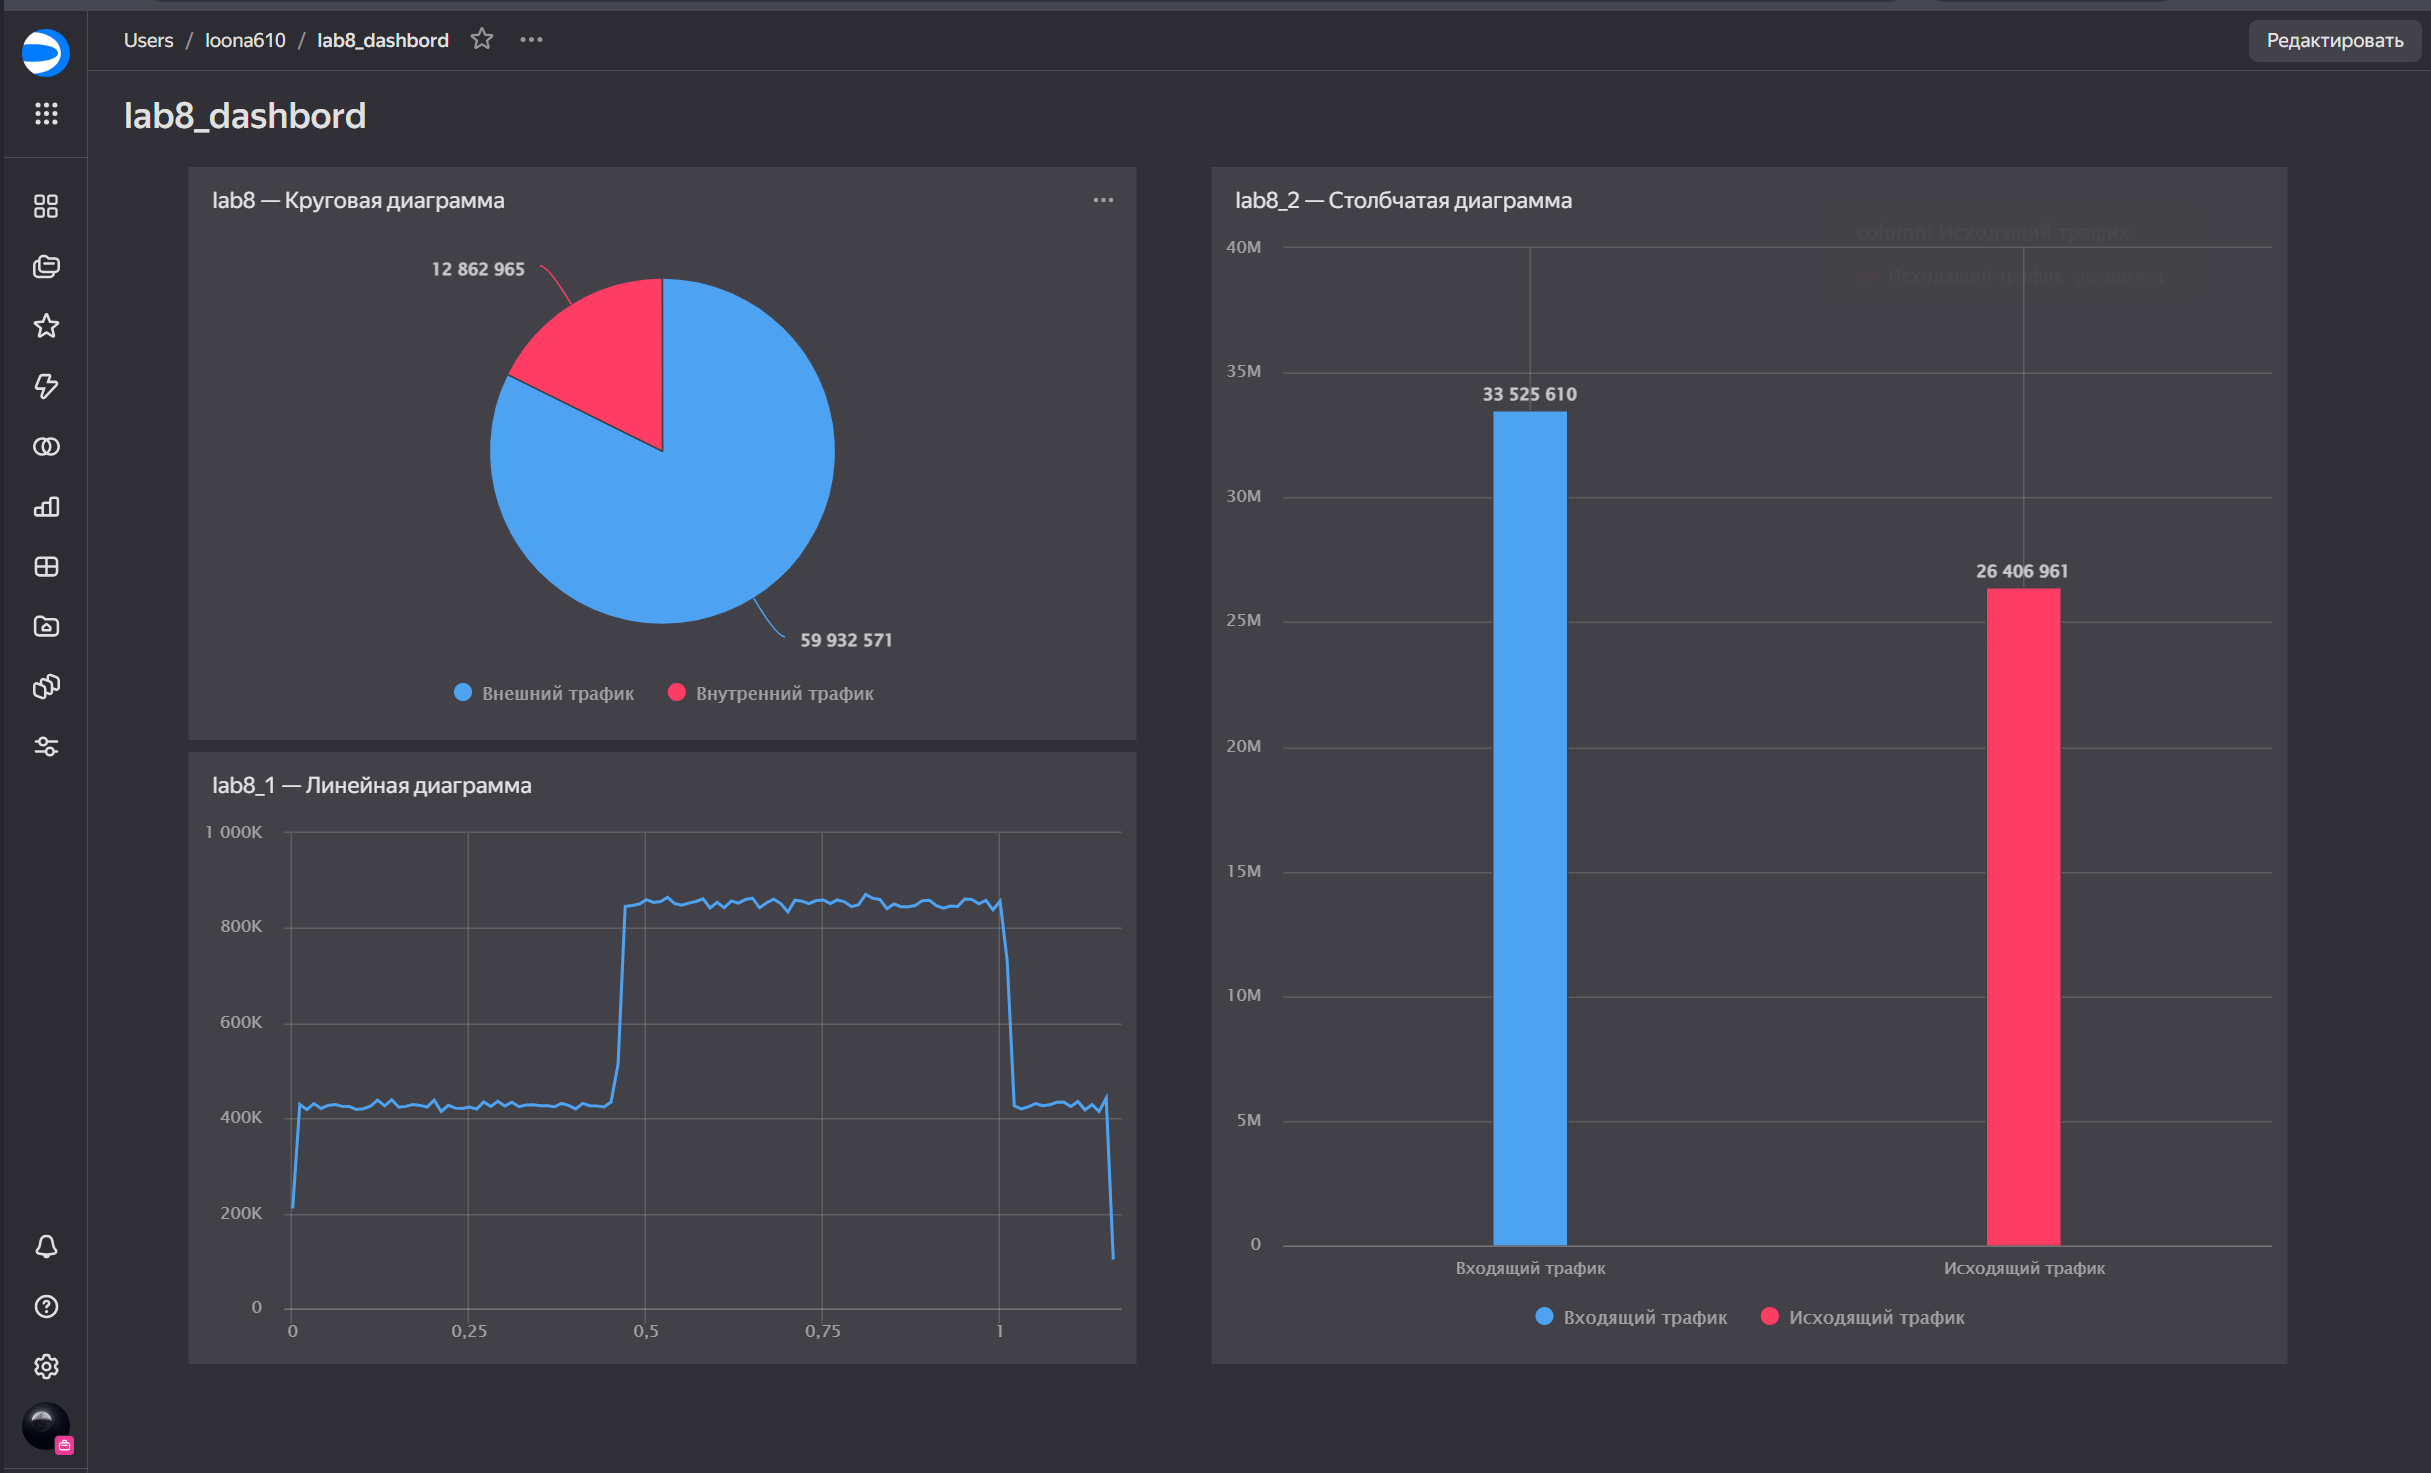
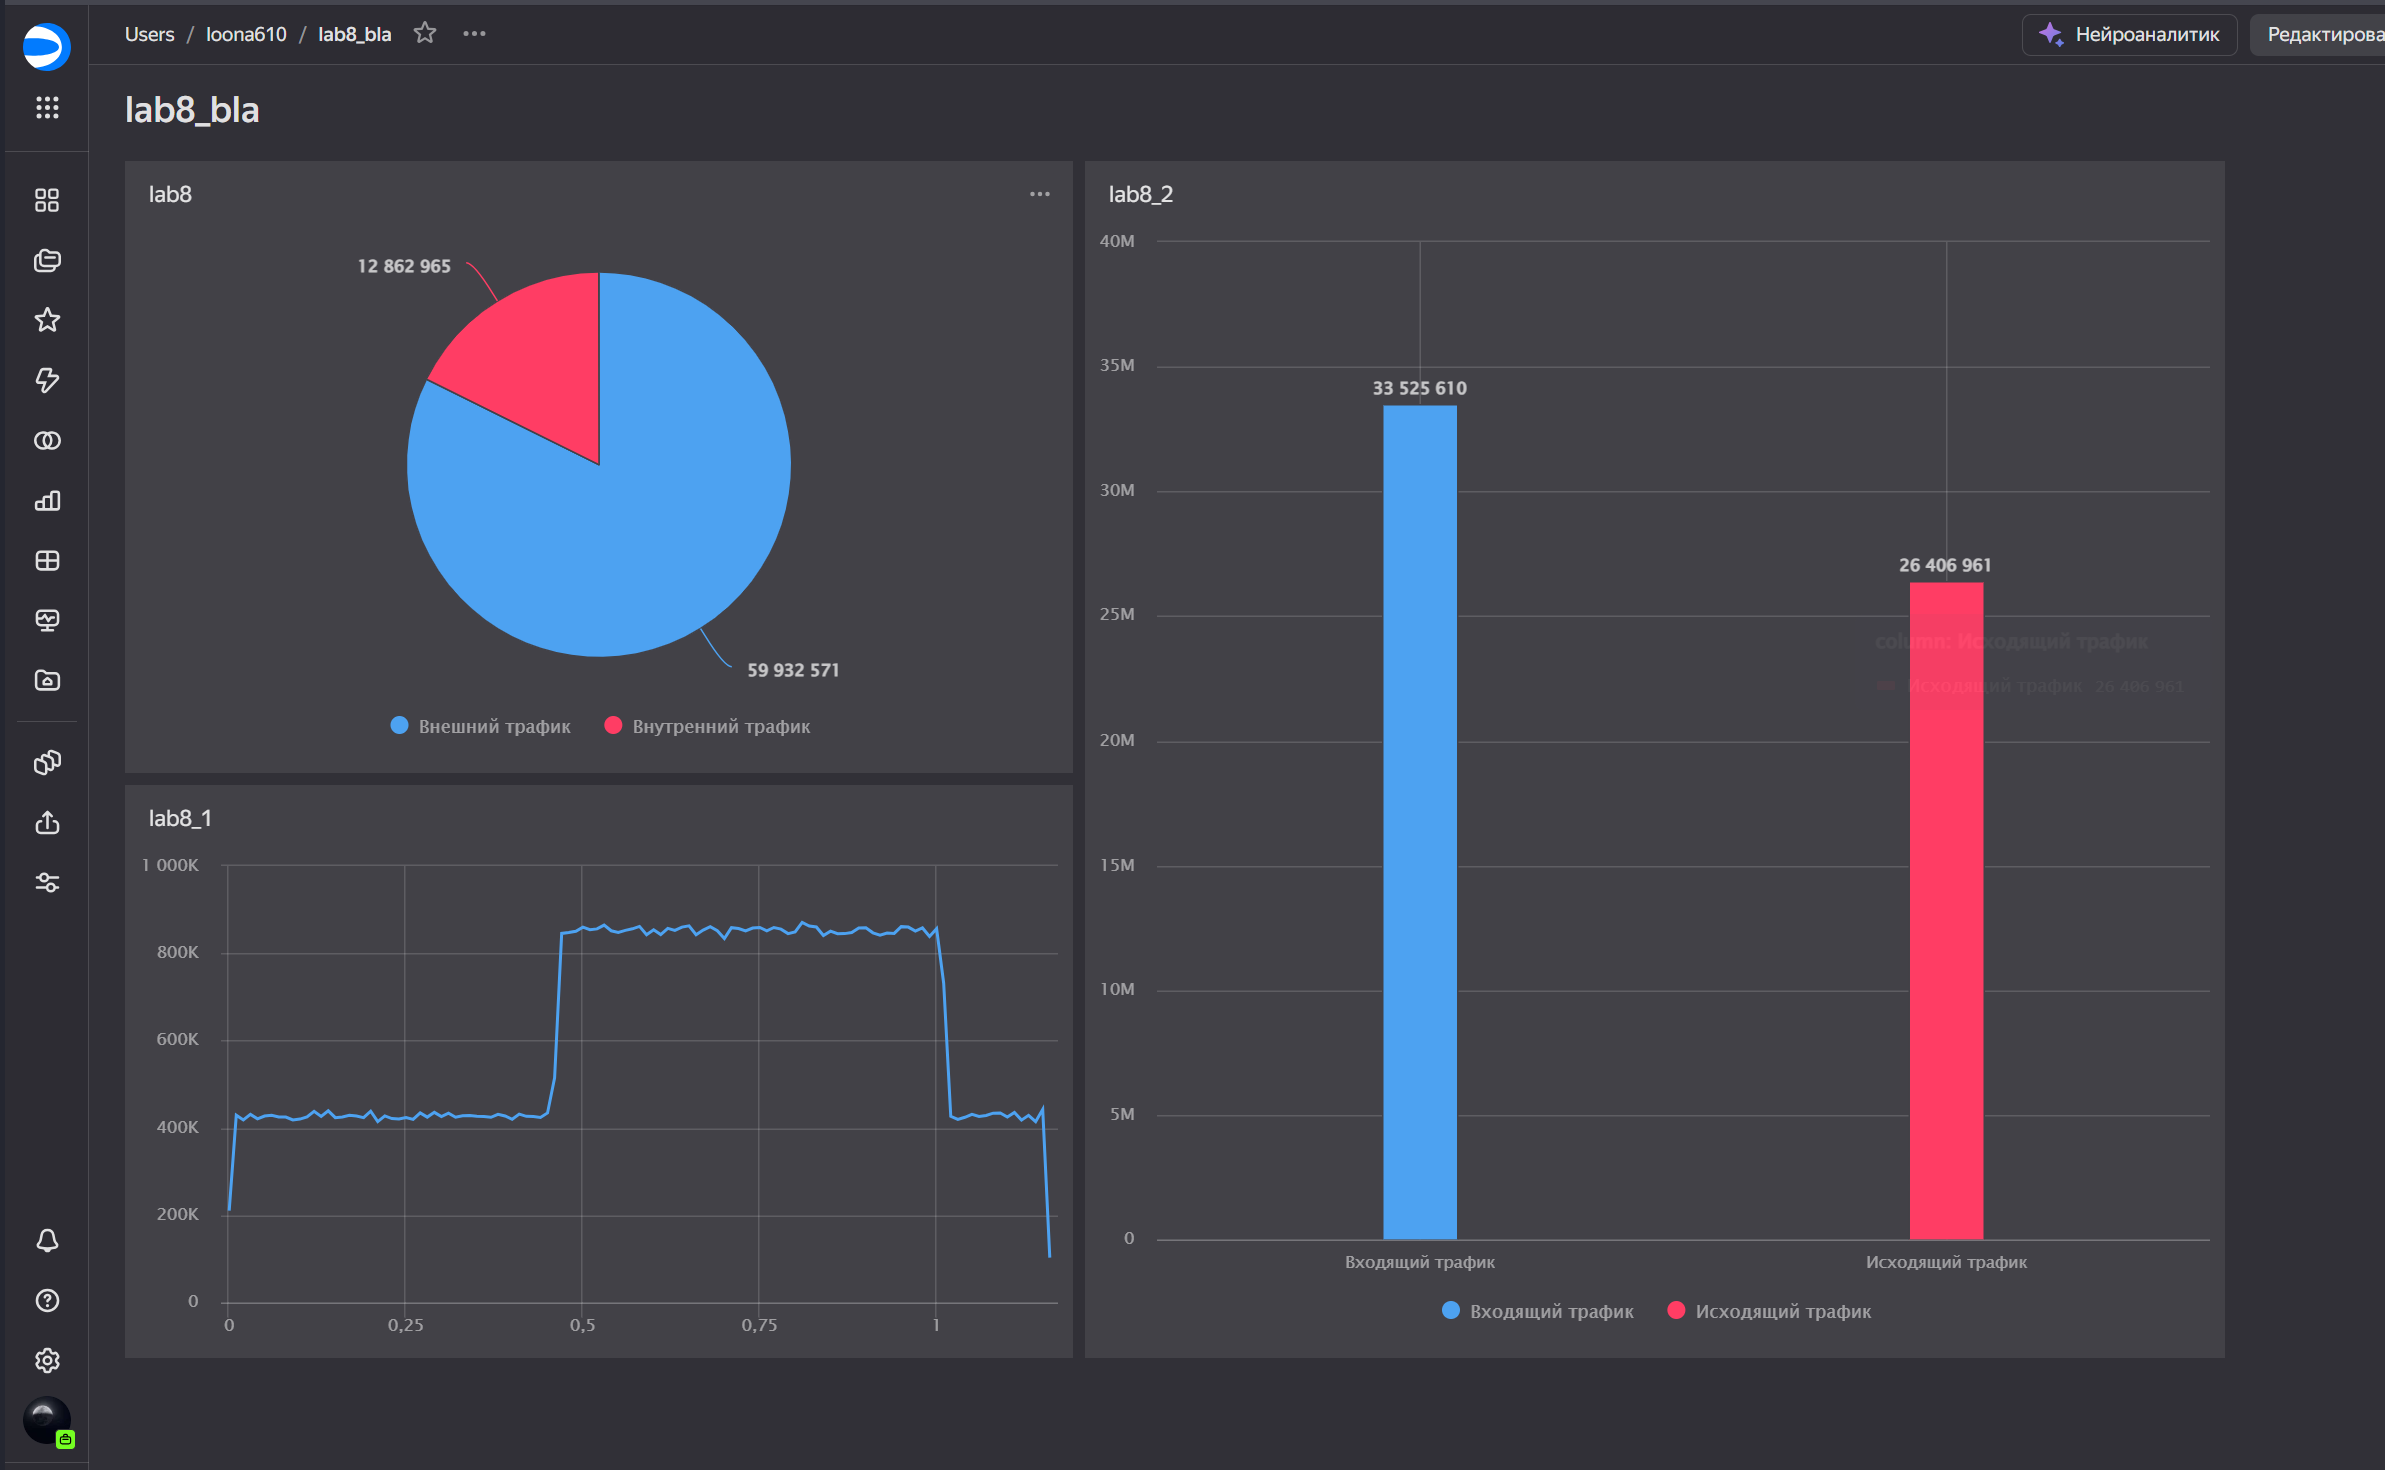
finish fix

diff --git a/lab8/README.md b/lab8/README.md
@@ -78,4 +78,4 @@ Lona610@yandex.ru
 
 ![](png/12.png)
 
-[Ссылка на дашборд](https://datalens.ru/6ou15ht0crhar-lab8-dashbord)
+[Ссылка на дашборд](https://datalens.ru/sblmnpthhm42d-lab8-bla)
